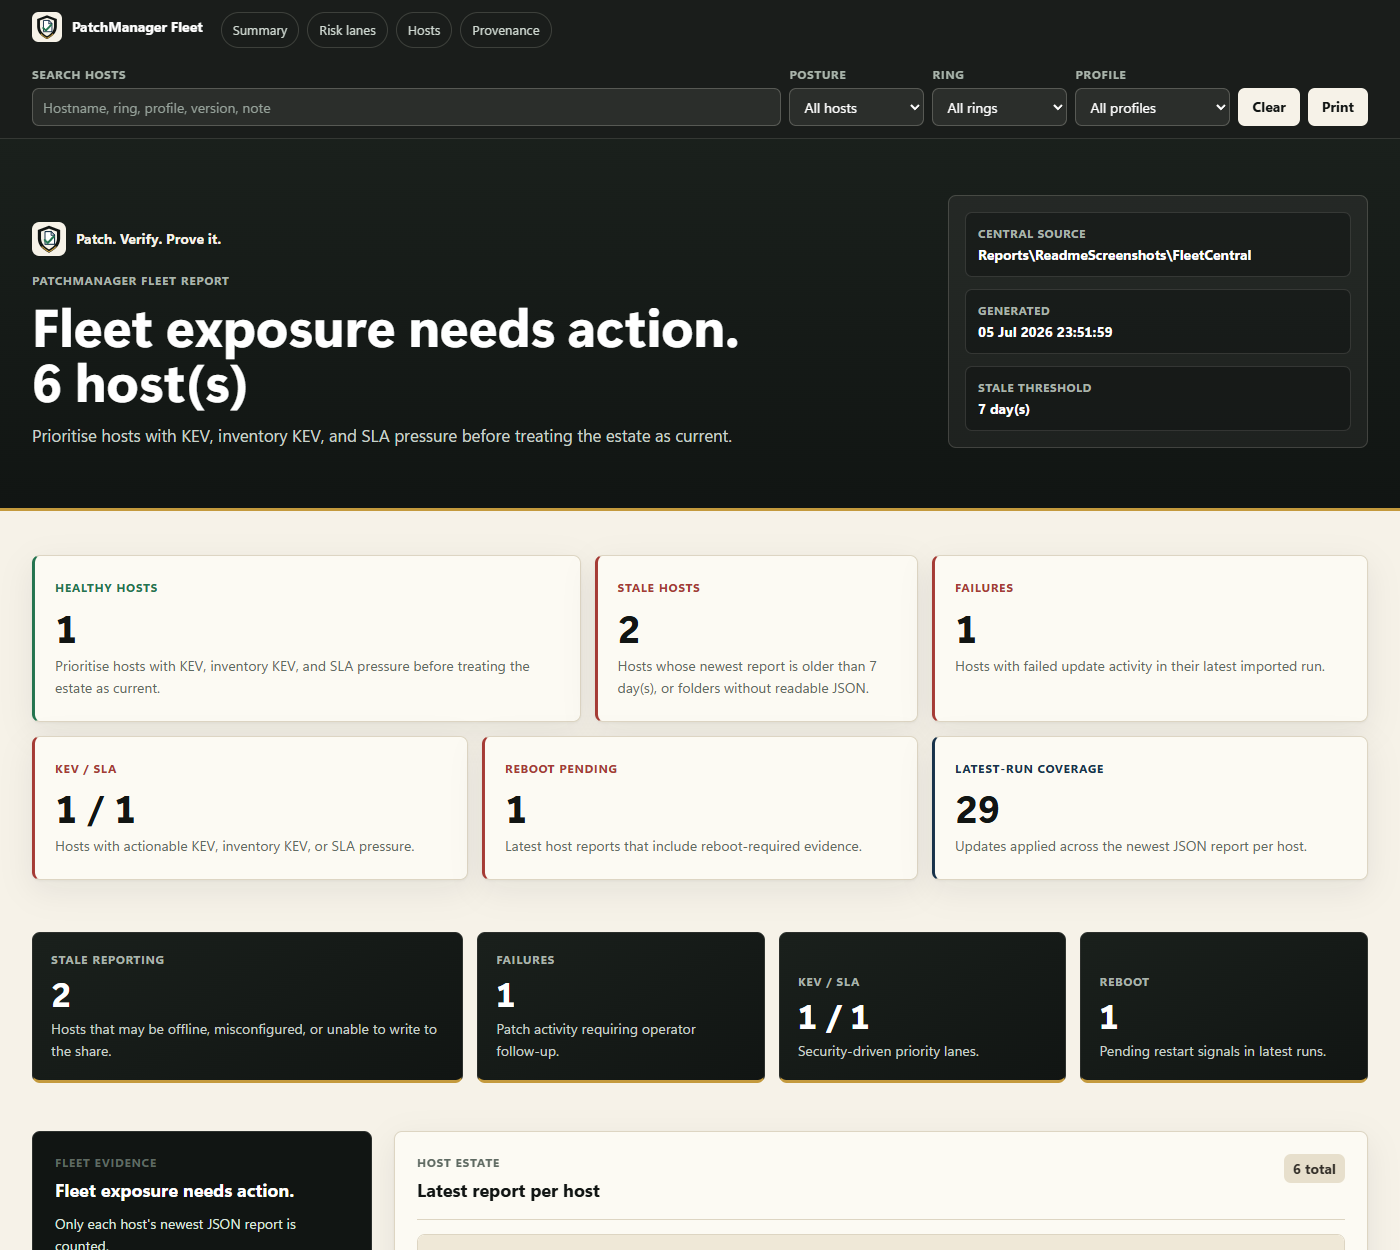
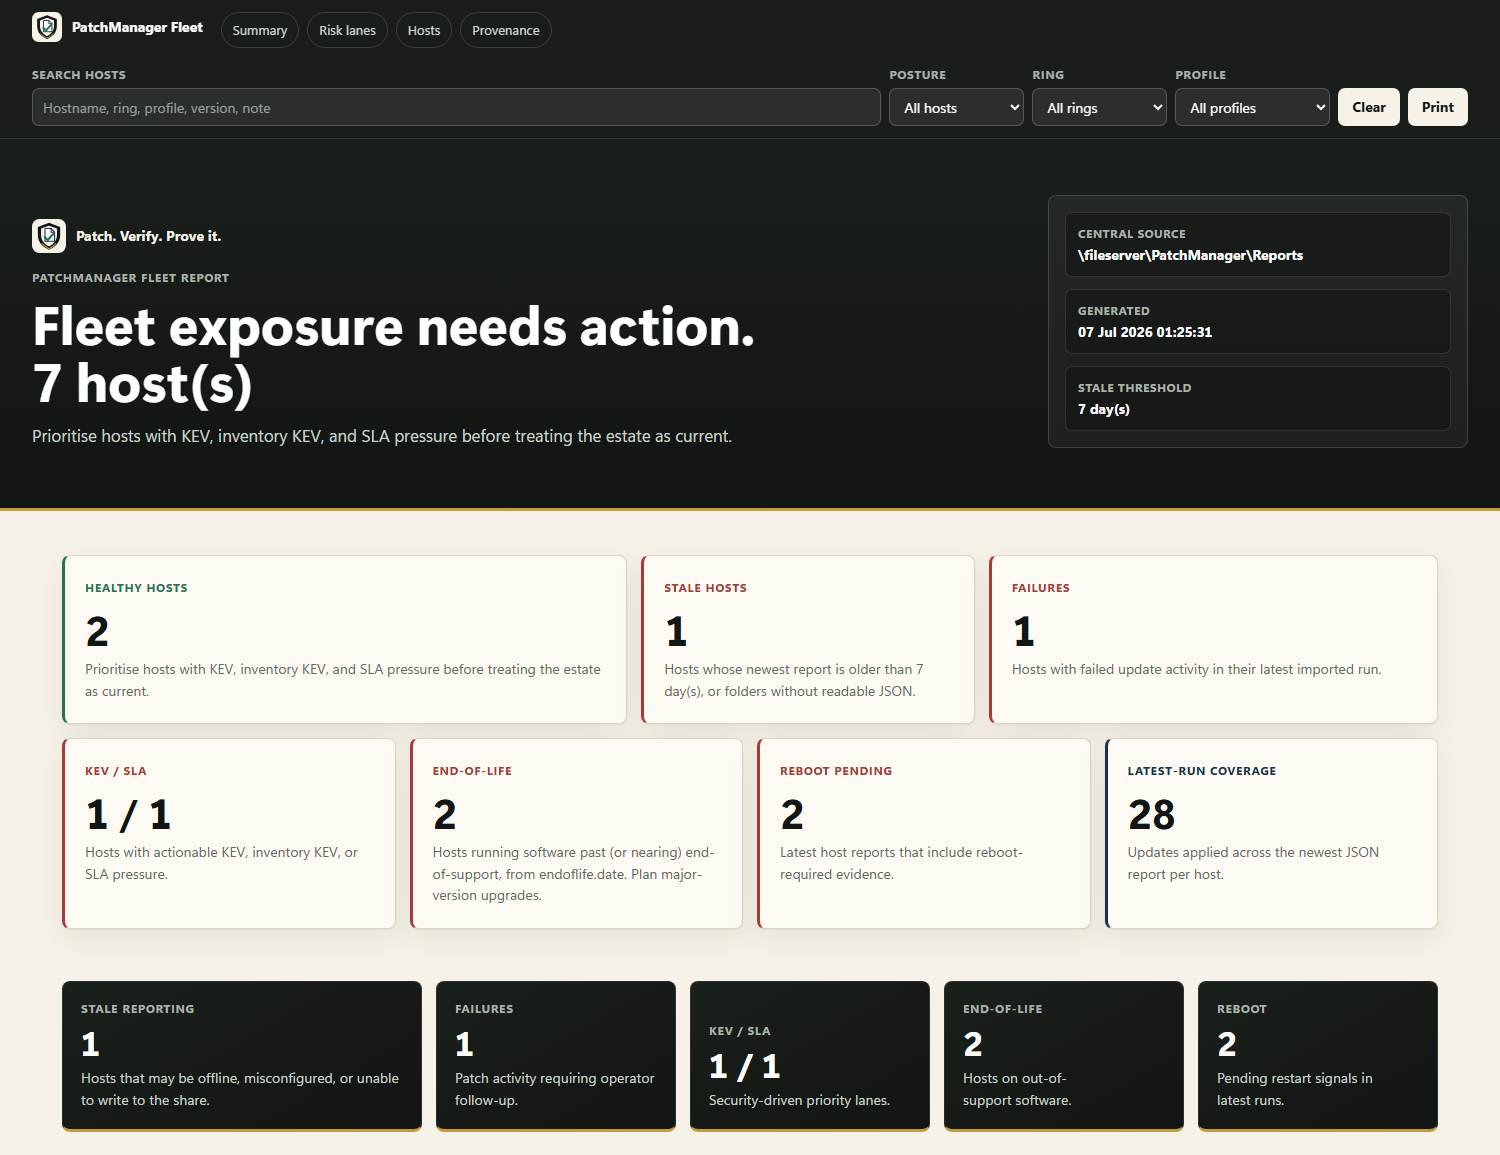
Refresh README screenshots for current (v1.3.x) features
- report-sample.png: regenerated on v1.3.1 (was v1.0.0), representative run.
- fleet-report-sample.png: regenerated showing the new estate-wide
  end-of-life card, risk lane, and per-host EOL exposure.
- report-endoflife-panel.png: new close-up of the end-of-life report panel -
  the flagship v1.3.0 feature had no screenshot; referenced from the Reports
  section. Also note the .staleness.csv/.endoflife.csv companions in the JSON/CSV
  bullets.

diff --git a/README.md b/README.md
@@ -575,8 +575,16 @@ central share if configured):
   changed" is never buried under "what was checked".
 - **JSON** — full machine-readable results: metadata, statistics, status /
   source / provider summaries, attention items, reboot-required items, every
-  update row, KEV matches (actionable + inventory), SLA breaches.
-- **CSV** — flat per-row export for SIEM ingestion, Excel, or Power BI.
+  update row, KEV matches (actionable + inventory), SLA breaches, environment
+  staleness, and end-of-life findings.
+- **CSV** — flat per-row export for SIEM ingestion, Excel, or Power BI (plus
+  companion `.staleness.csv` and `.endoflife.csv` for the report-only checks).
+
+Report-only panels sit alongside the patch results — for example, the
+**End-of-life** panel flags software whose whole release line is out of support
+(fully patched, yet no longer receiving fixes), sourced from endoflife.date:
+
+![PatchManager end-of-life report panel](docs/images/report-endoflife-panel.png)
 
 ### Status glossary
 